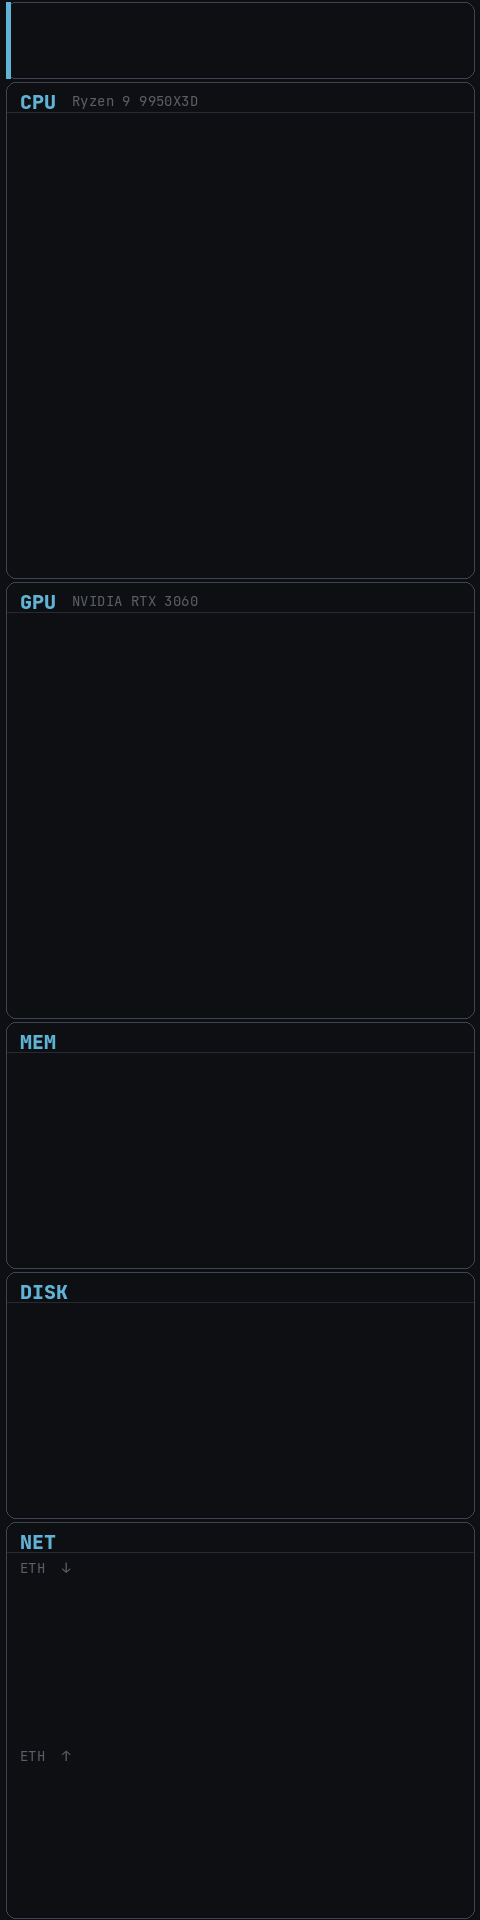
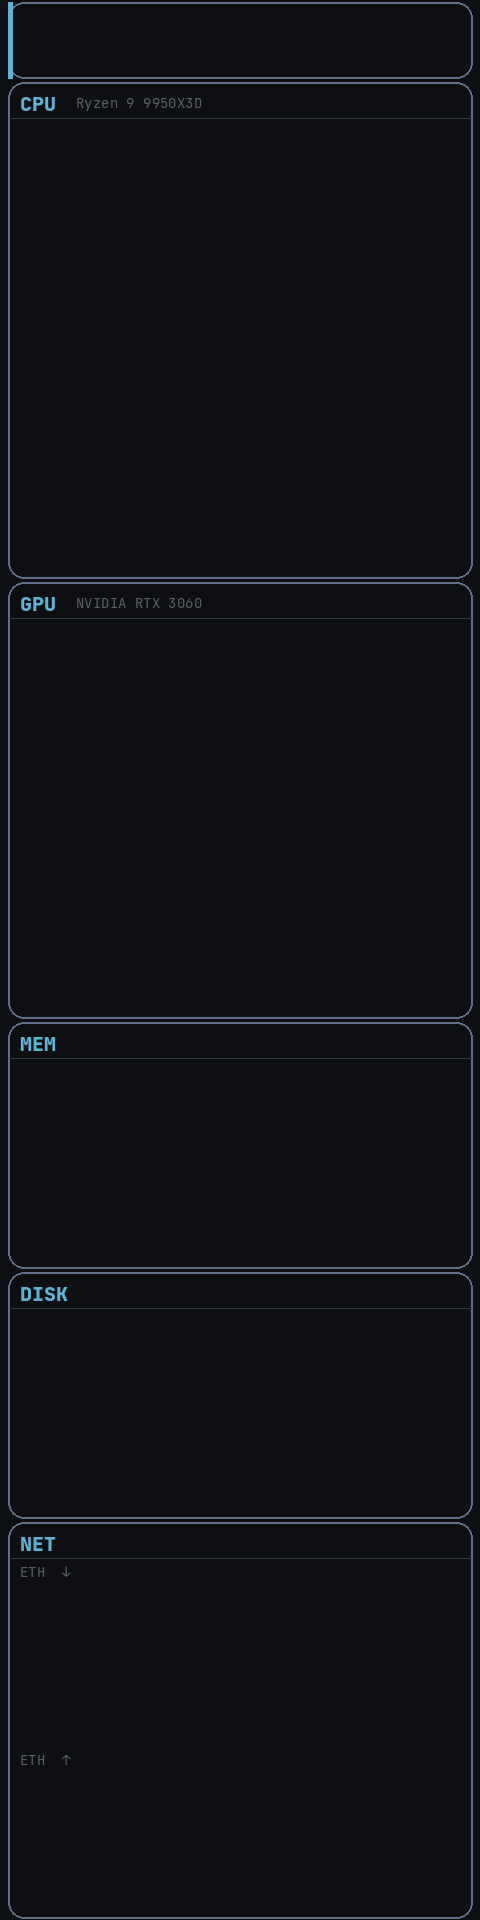
MinimalDark88: brighter borders, more padding/radius, fix GPU label overlap
- Border: brighter blue-grey (95,110,138), 2px stroke, radius 16
- Header band height 30→36px, MARGIN 6→8px
- Fix GPU temp/% overlapping "NVIDIA RTX 3060" sub-label (shift GPU
  content down 20px to clear new divider at yt+36)
- Shift MEM/DISK/NET content to match new divider positions

diff --git a/res/themes/MinimalDark88/_gen_theme.py b/res/themes/MinimalDark88/_gen_theme.py
@@ -162,66 +162,70 @@ STATS:
         {text(x=460, y=205, font=FONT_REG, size=20, color=TXT_DIM, anchor="rt")}
 
   # ── GPU ──────────────────────────────────────────────────────────────────
+  # GPU card yt=582, HDR_H=36 → divider at 618; content starts at 626+
   GPU:
     INTERVAL: 1
     PERCENTAGE:
       TEXT:
-        {text(x=460, y=610, font=FONT_BOLD, size=44, color=TXT, anchor="rt")}
+        {text(x=460, y=630, font=FONT_BOLD, size=44, color=TXT, anchor="rt")}
       GRAPH:
-        {bar(x=20, y=725, w=440, h=22)}
+        {bar(x=20, y=745, w=440, h=22)}
       LINE_GRAPH:
-        {linegraph(x=20, y=810, w=440, h=130, autoscale=False)}
+        {linegraph(x=20, y=832, w=440, h=130, autoscale=False)}
     TEMPERATURE:
       TEXT:
-        {text(x=20, y=605, font=FONT_EBOLD, size=58, color=TXT)}
+        {text(x=20, y=625, font=FONT_EBOLD, size=58, color=TXT)}
     MEMORY_PERCENT:
       GRAPH:
-        {bar(x=20, y=755, w=440, h=14, color=ACCENT_DIM)}
+        {bar(x=20, y=775, w=440, h=14, color=ACCENT_DIM)}
     MEMORY_USED:
       TEXT:
-        {text(x=20, y=677, font=FONT_REG, size=22, color=TXT_DIM)}
+        {text(x=20, y=697, font=FONT_REG, size=22, color=TXT_DIM)}
     MEMORY_TOTAL:
       TEXT:
-        {text(x=460, y=677, font=FONT_REG, size=22, color=TXT_DIM, anchor="rt")}
+        {text(x=460, y=697, font=FONT_REG, size=22, color=TXT_DIM, anchor="rt")}
 
   # ── MEMORY ───────────────────────────────────────────────────────────────
+  # MEM card yt=1022, HDR_H=36 → divider at 1058; content starts at 1063+
   MEMORY:
     INTERVAL: 5
     VIRTUAL:
       PERCENT_TEXT:
-        {text(x=460, y=1055, font=FONT_BOLD, size=44, color=TXT, anchor="rt")}
+        {text(x=460, y=1063, font=FONT_BOLD, size=44, color=TXT, anchor="rt")}
       GRAPH:
-        {bar(x=20, y=1115, w=440, h=22)}
+        {bar(x=20, y=1123, w=440, h=22)}
       USED:
-        {text(x=20, y=1148, font=FONT_REG, size=20, color=TXT_DIM)}
+        {text(x=20, y=1156, font=FONT_REG, size=20, color=TXT_DIM)}
       TOTAL:
-        {text(x=460, y=1148, font=FONT_REG, size=20, color=TXT_DIM, anchor="rt")}
+        {text(x=460, y=1156, font=FONT_REG, size=20, color=TXT_DIM, anchor="rt")}
 
   # ── DISK ─────────────────────────────────────────────────────────────────
+  # DISK card yt=1272, HDR_H=36 → divider at 1308; content starts at 1313+
   DISK:
     INTERVAL: 10
     USED:
       PERCENT_TEXT:
-        {text(x=460, y=1305, font=FONT_BOLD, size=44, color=TXT, anchor="rt")}
+        {text(x=460, y=1313, font=FONT_BOLD, size=44, color=TXT, anchor="rt")}
       GRAPH:
-        {bar(x=20, y=1365, w=440, h=22)}
+        {bar(x=20, y=1373, w=440, h=22)}
       TEXT:
-        {text(x=20, y=1398, font=FONT_REG, size=20, color=TXT_DIM)}
+        {text(x=20, y=1406, font=FONT_REG, size=20, color=TXT_DIM)}
     TOTAL:
       TEXT:
-        {text(x=460, y=1398, font=FONT_REG, size=20, color=TXT_DIM, anchor="rt")}
+        {text(x=460, y=1406, font=FONT_REG, size=20, color=TXT_DIM, anchor="rt")}
 
   # ── NETWORK ──────────────────────────────────────────────────────────────
+  # NET card yt=1522, HDR_H=36 → divider at 1558; content starts at 1562+
   NET:
     INTERVAL: 2
     ETH:
       DOWNLOAD:
         TEXT:
-          {text(x=460, y=1560, font=FONT_BOLD, size=22, color=ACCENT, anchor="rt", indent=10)}
+          {text(x=460, y=1562, font=FONT_BOLD, size=22, color=ACCENT, anchor="rt", indent=10)}
         LINE_GRAPH:
           SHOW: True
           X: 20
-          Y: 1594
+          Y: 1596
           WIDTH: 440
           HEIGHT: 140
           MIN_VALUE: 0

diff --git a/res/themes/MinimalDark88/make_background.py b/res/themes/MinimalDark88/make_background.py
@@ -7,8 +7,8 @@ from pathlib import Path
 
 W, H = 480, 1920
 BG      = (14, 15, 18)
-BORDER  = (62, 68, 82)       # card outline
-DIVIDER = (38, 42, 52)       # header-bar underline inside each card
+BORDER  = (95, 110, 138)     # card outline
+DIVIDER = (50, 56, 70)       # header-bar underline inside each card
 ACCENT  = (95, 179, 214)
 SUBTLE  = (90, 94, 102)
 LABEL_C = (140, 144, 153)
@@ -20,10 +20,10 @@ F_SUB     = ImageFont.truetype(str(FONTS / "jetbrains-mono" / "JetBrainsMono-Reg
 img = Image.new("RGB", (W, H), BG)
 d   = ImageDraw.Draw(img)
 
-RADIUS  = 10
-MARGIN  = 6      # gap between screen edge and card
+RADIUS  = 16
+MARGIN  = 8      # gap between screen edge and card
 PAD_X   = 20     # content left margin (matches theme.yaml X=20)
-HDR_H   = 30     # height of the label band inside each card
+HDR_H   = 36     # height of the label band inside each card
 
 # (y_top, y_bottom, label, sub_label)
 cards = [
@@ -41,24 +41,26 @@ for (yt, yb, label, sub) in cards:
         [MARGIN, yt, W - MARGIN, yb],
         radius=RADIUS,
         outline=BORDER,
-        width=1,
+        width=2,
     )
     if label:
         # Thin line under the label row
         line_y = yt + HDR_H
         d.line([(MARGIN + 1, line_y), (W - MARGIN - 1, line_y)], fill=DIVIDER, width=1)
         # Section label
-        d.text((PAD_X, yt + 6), label, font=F_SECTION, fill=ACCENT)
+        d.text((PAD_X, yt + 8), label, font=F_SECTION, fill=ACCENT)
         # Sub-label (hardware name)
         if sub:
-            d.text((PAD_X + 52, yt + 9), sub, font=F_SUB, fill=SUBTLE)
+            d.text((PAD_X + 56, yt + 11), sub, font=F_SUB, fill=SUBTLE)
 
-# NET sub-labels for graph lanes
-d.text((PAD_X, 1558), "ETH  ↓", font=F_SUB, fill=SUBTLE)
-d.text((PAD_X, 1746), "ETH  ↑", font=F_SUB, fill=SUBTLE)
+# NET sub-labels for graph lanes (must clear HDR_H divider at yt+36=1558)
+d.text((PAD_X, 1562), "ETH  ↓", font=F_SUB, fill=SUBTLE)
+d.text((PAD_X, 1750), "ETH  ↑", font=F_SUB, fill=SUBTLE)
 
 # Left accent strip on header card
 d.rectangle([(MARGIN, 2), (MARGIN + 4, 78)], fill=ACCENT)
+# Widen border to 2px on all cards
+
 
 out = Path(__file__).with_name("background.png")
 img.save(out)
